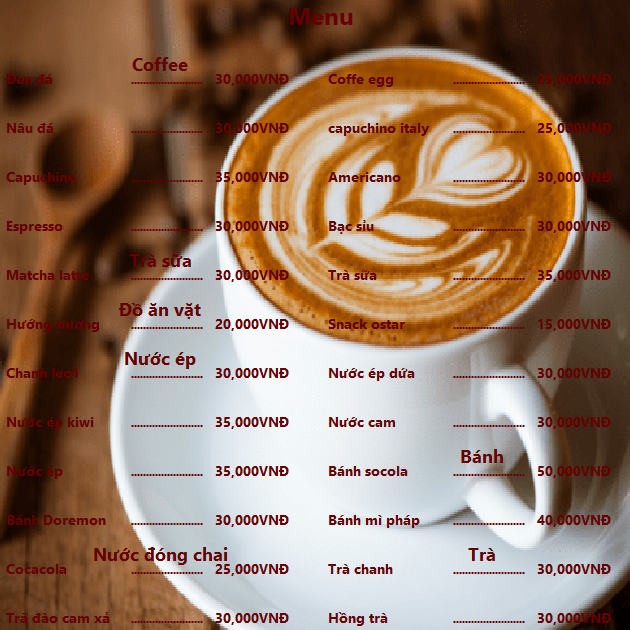
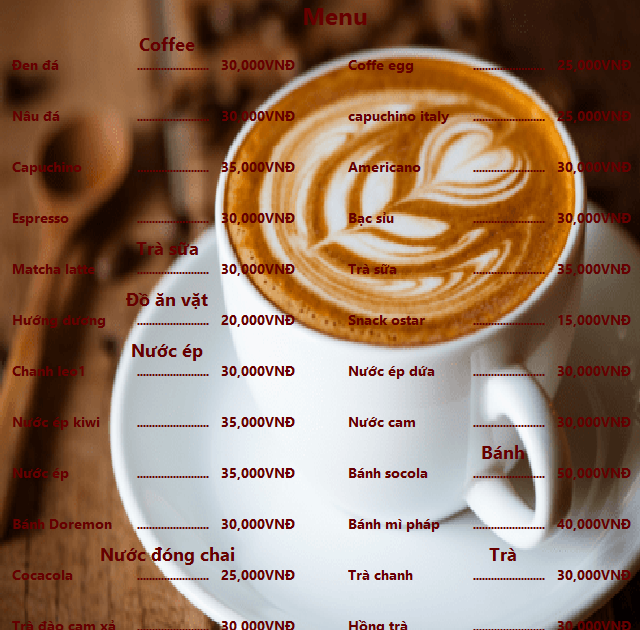
-merge to Tai

diff --git a/src/main/java/com/view/form_Template/GenMenuFrame.java b/src/main/java/com/view/form_Template/GenMenuFrame.java
@@ -65,11 +65,11 @@ public class GenMenuFrame extends javax.swing.JFrame {
         panelMenuDisplay.setLayout(panelMenuDisplayLayout);
         panelMenuDisplayLayout.setHorizontalGroup(
             panelMenuDisplayLayout.createParallelGroup(javax.swing.GroupLayout.Alignment.LEADING)
-            .addGap(0, 643, Short.MAX_VALUE)
+            .addGap(0, 671, Short.MAX_VALUE)
         );
         panelMenuDisplayLayout.setVerticalGroup(
             panelMenuDisplayLayout.createParallelGroup(javax.swing.GroupLayout.Alignment.LEADING)
-            .addGap(0, 636, Short.MAX_VALUE)
+            .addGap(0, 650, Short.MAX_VALUE)
         );
 
         jButton3.setText("In Menu");
@@ -85,19 +85,19 @@ public class GenMenuFrame extends javax.swing.JFrame {
             layout.createParallelGroup(javax.swing.GroupLayout.Alignment.LEADING)
             .addGroup(layout.createSequentialGroup()
                 .addContainerGap()
-                .addComponent(panelMenuDisplay, javax.swing.GroupLayout.DEFAULT_SIZE, javax.swing.GroupLayout.DEFAULT_SIZE, Short.MAX_VALUE)
-                .addContainerGap())
+                .addComponent(panelMenuDisplay, javax.swing.GroupLayout.PREFERRED_SIZE, javax.swing.GroupLayout.DEFAULT_SIZE, javax.swing.GroupLayout.PREFERRED_SIZE)
+                .addContainerGap(javax.swing.GroupLayout.DEFAULT_SIZE, Short.MAX_VALUE))
             .addGroup(javax.swing.GroupLayout.Alignment.TRAILING, layout.createSequentialGroup()
                 .addContainerGap(javax.swing.GroupLayout.DEFAULT_SIZE, Short.MAX_VALUE)
                 .addComponent(jButton3)
-                .addGap(84, 84, 84))
+                .addContainerGap())
         );
         layout.setVerticalGroup(
             layout.createParallelGroup(javax.swing.GroupLayout.Alignment.LEADING)
             .addGroup(layout.createSequentialGroup()
                 .addContainerGap()
                 .addComponent(panelMenuDisplay, javax.swing.GroupLayout.DEFAULT_SIZE, javax.swing.GroupLayout.DEFAULT_SIZE, Short.MAX_VALUE)
-                .addPreferredGap(javax.swing.LayoutStyle.ComponentPlacement.UNRELATED)
+                .addPreferredGap(javax.swing.LayoutStyle.ComponentPlacement.RELATED)
                 .addComponent(jButton3)
                 .addGap(8, 8, 8))
         );
@@ -136,7 +136,7 @@ public class GenMenuFrame extends javax.swing.JFrame {
     public static BufferedImage getScreenShot(
             Component component) {
         BufferedImage image = new BufferedImage(
-                630, 630,
+                640, 630,
                 BufferedImage.TYPE_INT_RGB
         );
         // call the Component's paint method, using
@@ -171,37 +171,37 @@ public class GenMenuFrame extends javax.swing.JFrame {
     /**
      * @param args the command line arguments
      */
-    public static void main(String args[]) {
-        /* Set the Nimbus look and feel */
-        //<editor-fold defaultstate="collapsed" desc=" Look and feel setting code (optional) ">
-        /* If Nimbus (introduced in Java SE 6) is not available, stay with the default look and feel.
-         * For details see http://download.oracle.com/javase/tutorial/uiswing/lookandfeel/plaf.html 
-         */
-        try {
-            for (javax.swing.UIManager.LookAndFeelInfo info : javax.swing.UIManager.getInstalledLookAndFeels()) {
-                if ("Nimbus".equals(info.getName())) {
-                    javax.swing.UIManager.setLookAndFeel(info.getClassName());
-                    break;
-                }
-            }
-        } catch (ClassNotFoundException ex) {
-            java.util.logging.Logger.getLogger(GenMenuFrame.class.getName()).log(java.util.logging.Level.SEVERE, null, ex);
-        } catch (InstantiationException ex) {
-            java.util.logging.Logger.getLogger(GenMenuFrame.class.getName()).log(java.util.logging.Level.SEVERE, null, ex);
-        } catch (IllegalAccessException ex) {
-            java.util.logging.Logger.getLogger(GenMenuFrame.class.getName()).log(java.util.logging.Level.SEVERE, null, ex);
-        } catch (javax.swing.UnsupportedLookAndFeelException ex) {
-            java.util.logging.Logger.getLogger(GenMenuFrame.class.getName()).log(java.util.logging.Level.SEVERE, null, ex);
-        }
-        //</editor-fold>
-
-        /* Create and display the form */
-        java.awt.EventQueue.invokeLater(new Runnable() {
-            public void run() {
-                new GenMenuFrame().setVisible(true);
-            }
-        });
-    }
+//    public static void main(String args[]) {
+//        /* Set the Nimbus look and feel */
+//        //<editor-fold defaultstate="collapsed" desc=" Look and feel setting code (optional) ">
+//        /* If Nimbus (introduced in Java SE 6) is not available, stay with the default look and feel.
+//         * For details see http://download.oracle.com/javase/tutorial/uiswing/lookandfeel/plaf.html 
+//         */
+//        try {
+//            for (javax.swing.UIManager.LookAndFeelInfo info : javax.swing.UIManager.getInstalledLookAndFeels()) {
+//                if ("Nimbus".equals(info.getName())) {
+//                    javax.swing.UIManager.setLookAndFeel(info.getClassName());
+//                    break;
+//                }
+//            }
+//        } catch (ClassNotFoundException ex) {
+//            java.util.logging.Logger.getLogger(GenMenuFrame.class.getName()).log(java.util.logging.Level.SEVERE, null, ex);
+//        } catch (InstantiationException ex) {
+//            java.util.logging.Logger.getLogger(GenMenuFrame.class.getName()).log(java.util.logging.Level.SEVERE, null, ex);
+//        } catch (IllegalAccessException ex) {
+//            java.util.logging.Logger.getLogger(GenMenuFrame.class.getName()).log(java.util.logging.Level.SEVERE, null, ex);
+//        } catch (javax.swing.UnsupportedLookAndFeelException ex) {
+//            java.util.logging.Logger.getLogger(GenMenuFrame.class.getName()).log(java.util.logging.Level.SEVERE, null, ex);
+//        }
+//        //</editor-fold>
+//
+//        /* Create and display the form */
+//        java.awt.EventQueue.invokeLater(new Runnable() {
+//            public void run() {
+//                new GenMenuFrame().setVisible(true);
+//            }
+//        });
+//    }
 
     // Variables declaration - do not modify//GEN-BEGIN:variables
     private javax.swing.JButton jButton3;

diff --git a/src/main/java/repository/DAO_NhanVien.java b/src/main/java/repository/DAO_NhanVien.java
@@ -31,7 +31,6 @@ public class DAO_NhanVien {
     final String SELECT_ALL_SQL = "SELECT * FROM [dbo].[NhanVien];";
     final String SELECT_CBONV_SQL = "  SELECT Id,Ho + ' ' + TenDem + ' ' + Ten AS HOTENNHANVIEN FROM NhanVien";
     final String SELECT_BY_TenNV_SQL = " SELECT Id FROM NhanVien WHERE Ten like ?";
-    final String SELECT_BY_MANV = " SELECT * FROM NhanVien WHERE Ma = ?";
 
     public DAO_NhanVien() {
     }
@@ -86,9 +85,6 @@ public class DAO_NhanVien {
                 System.out.println("dao nhan vien :"+ nhanVien.toString());
                 break;
             }
-
-                lstNhanVien.add(new NhanVien(rs.getString("Id"), rs.getString("Ma"), rs.getNString("Ten"), rs.getNString("TenDem"), rs.getNString("Ho"), rs.getNString("GioiTinh"), rs.getDate("NgaySinh"), rs.getString("DiaChi"), rs.getString("Sdt"), rs.getString("TaiKhoan"), rs.getString("MatKhau"), capBac, rs.getInt("TrangThai"), rs.getBytes("HinhAnh"), rs.getString("NgayTao")));
-
         } catch (Exception e) {
             e.printStackTrace();
         }
@@ -185,24 +181,5 @@ public class DAO_NhanVien {
         return idNhanVien;
     }
 
-    public NhanVien selectByMa(String ma) {
-        DBConnection1 dbConn = new DBConnection1();
-        NhanVien nhanVien = new NhanVien();
-        ArrayList<NhanVien> lstNhanVien = new ArrayList<>();
-        DAO_CapBac dao_capBac = new DAO_CapBac();
-        try {
-            ResultSet rs = dbConn.getDataFromQuery(SELECT_BY_MANV, ma);
-            while (rs.next()) {
-                CapBac capBac = dao_capBac.selectByID(rs.getString("IdCB"));
-                lstNhanVien.add(new NhanVien(rs.getString("Id"), rs.getString("Ma"), rs.getNString("Ten"), rs.getNString("TenDem"), rs.getNString("Ho"), rs.getNString("GioiTinh"), rs.getDate("NgaySinh"), rs.getString("DiaChi"), rs.getString("Sdt"), rs.getString("TaiKhoan"), rs.getString("MatKhau"), capBac, rs.getInt("TrangThai"), rs.getBytes("HinhAnh"), rs.getString("NgayTao")));
-                nhanVien = lstNhanVien.get(0);
-                break;
-            }
-
-        } catch (Exception e) {
-            e.printStackTrace();
-        }
-        return nhanVien;
-    }
 
 }

diff --git a/src/main/java/com/view/main/MainTemplate.java b/src/main/java/com/view/main/MainTemplate.java
@@ -69,34 +69,6 @@ public class MainTemplate extends javax.swing.JFrame {
 
     public MainTemplate() {
         initComponents();
-        System.out.println("==========Loading Form_thongBao==========");
-        formThongbao = new Form_ThongBao();
-        System.out.println("==========Loading Form_BanHang==========");
-        formBanHang = new Form_BanHang();
-        luongNhanVien = new TinhLuongNhanVien();
-        System.out.println("==========Loading Form_KhuyenMai==========");
-        form_KhuyenMai = new Form_KhuyenMai();
-        System.out.println("==========Loading Form_QuanLyNhanVien==========");
-        formQLNhanVien = new QuanLyNhanVien();
-        System.out.println("==========Loading Form_TaoTaiKhoan==========");
-        form_TaoTaiKhoan = new Form_TaoTaiKhoan();
-        System.out.println("==========Loading Form_QuanLyDoUong==========");
-        form_QLDoUong = new Form_QLDoUong();
-        System.out.println("==========Loading Form_QuanLyHoaDon==========");
-        formQLHoaDon = new Form_QLHoaDon();
-        System.out.println("==========Loading Form_QuanLyNhapKho==========");
-        form_QuanLyKho = new Form_QuanLyKho();
-        form_GiaoCa = new Form_GiaoCa();
-        System.out.println("==========Loading Form_GiaoCa==========");
-        form_GiaoCa = new Form_GiaoCa();
-        System.out.println("==========Loading Form_ChamCong==========");
-        form_ChamCong = new Form_ChamCong();
-        System.out.println("==========Loading Form_QuanLyLoaiDoUong==========");
-        form_LoaiDoUong = new Form_LoaiDoUong();
-        System.out.println("==========Loading Form_QuanLyCapBac==========");
-        form_CapBac = new Form_CapBac();
-        System.out.println("==========Loading Form_QuanLyThongKe==========");
-        form_ThongKe = new Form_ThongKe();
         Thread t1 = new Thread(
                 () -> {
                     formThongbao = new Form_ThongBao();

diff --git a/src/main/java/com/view/component/paneOfmenu.java b/src/main/java/com/view/component/paneOfmenu.java
@@ -104,7 +104,7 @@ public class paneOfmenu extends JPanel {
                     c.gridx = 0;
                     c.gridy = 0;
                     c.gridwidth = 1;
-                    c.insets = new Insets(1, 1, -30, 1);
+                    c.insets = new Insets(1, 1, -20, 1);
                     this.add(tittle, c);
                 }
                 try {
@@ -122,7 +122,7 @@ public class paneOfmenu extends JPanel {
                             c.gridx = j;
                             c.gridy = i-1;
                             c.gridwidth = 1;
-                            c.insets = new Insets(1, 1, -30, 1);
+                            c.insets = new Insets(1, 1, -20, 1);
                             this.add(tit, c);
                             break;
                         }

diff --git a/src/main/java/com/view/main/MainController.java b/src/main/java/com/view/main/MainController.java
@@ -13,8 +13,6 @@ public class MainController {
         java.awt.EventQueue.invokeLater(new Runnable() {
             public void run() {
 //                  new LoginFrame().setVisible(true);
-                new MainTemplate().setVisible(true);
-
                   new LoginFrame().setVisible(true);
             }
         });

diff --git a/src/main/java/service/NhanVienService.java b/src/main/java/service/NhanVienService.java
@@ -40,8 +40,6 @@ public class NhanVienService {
     public String selectByTenNhanVien(String tenNV) {
         return repositoryNhanVien.selectByTenNhanVien(tenNV);
     }
-
-    public NhanVien selectByMa(String ma) {
      
     public NhanVien selectByMa(String ma){
         return repositoryNhanVien.selectByMa(ma);
